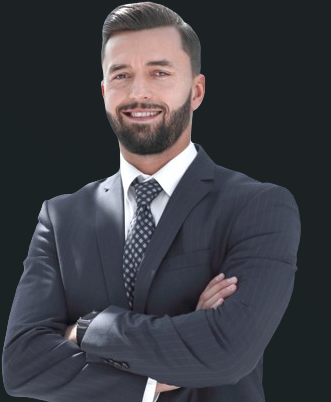
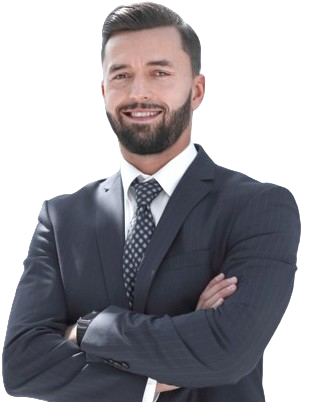
version 04

diff --git a/src/components/About/about.js b/src/components/About/about.js
@@ -73,6 +73,12 @@ const About = () => {
               >
                 Soft Skills
               </div>
+              <div
+                className={`tab-links ${activeTab === "course" ? "active-link" : ""}`}
+                onClick={() => openTab("course")}
+              >
+                Certificate Courses
+              </div>
             </div>
 
             {/* Tab content based on activeTab */}
@@ -154,6 +160,35 @@ const About = () => {
                 </li>
                 <li>
                   Open Minded
+                </li>
+              </ul>
+            </div>
+
+            <div className={`tab-content ${activeTab === "course" ? "active-tab" : ""}`} id="course">
+              <ul>
+                <li>
+                  <span>
+                  Online Certificate Course in React Basics - Mobile 
+                  and Web Development
+                  </span>
+                  <br />
+                  Coursera
+                </li>
+                <li>
+                  <span>
+                  Online Certificate Course Selenium WebDriver for 
+                  Beginners using JAVA.
+                  </span>
+                  <br />
+                  Udemy
+                </li>
+
+                <li>
+                  <span>
+                  Online Certificate Course in Selenium Basics
+                  </span>
+                  <br />
+                  Great Learning
                 </li>
               </ul>
             </div>

diff --git a/src/components/contact/contact.js b/src/components/contact/contact.js
@@ -2,6 +2,7 @@ import React from 'react'
 import "./contact.css";
 
 const Contact = () => {
+    
   return (
     <div id="contact">
         <div className="container">
@@ -21,8 +22,8 @@ const Contact = () => {
                 </div>
                 <div className="contact-right">
                     <form>
-                        <input type="text" name="name" placeholder="Your name hear.." required></input>
-                        <input type="email" name="email" placeholder="Enter your email hear.." required></input>
+                        <input type="text" name="Name" placeholder="Your name hear.." required></input>
+                        <input type="email" name="Email" placeholder="Enter your email hear.." required></input>
                         <textarea name="Message" rows="6" placeholder="Enter Your.." ></textarea>
                         <button type="submit" className="btn2"><i class="fa-solid fa-cloud-arrow-up"></i> Submit</button>
                     </form>
@@ -38,3 +39,5 @@ const Contact = () => {
 }
 
 export default Contact
+
+//https://script.google.com/macros/s/AKfycbzvlWvr9P3vNQd31GXgIiRuBEeSwzw5SpXcyCXyXH5d4kOdFFkYUSZGQ3GwffcPgQg/exec

diff --git a/src/components/services/services.js b/src/components/services/services.js
@@ -20,19 +20,20 @@ const Services = () => {
                 </div>
                 <div>
                 <i class="fa-solid fa-crop"></i>
-                    <h2>Web DeVeloper</h2>
-                   <p>C, C++, C#, Python, HTML, CSS, Java 
+                    <h2>Web Developer</h2>
+                   <p>C, C++, C#, Python, HTML, CSS, Java, 
                     JavaScript, PHP, MySQL, SQLite, Bootsrap, Mongo DB, MSSQL, React JS, Node JS</p> 
                     <a href = "#2">Learn more</a>
                 </div>
                 <div>
                 <i class="fa-brands fa-app-store-ios"></i>
-                    <h2>Soft Skills</h2>
-                    <p>hhhhhhhhhhhhhhhhhhhhhh</p>
+                    <h2>App Design</h2>
+                    <p>Android</p>
                     <a href = "#3">Learn more</a>
                 </div>
             </div>
 
+        
         </div>
     </div>
    

diff --git a/src/components/services/services.css b/src/components/services/services.css
@@ -36,14 +36,19 @@
 
 
 .services-list div i{
-    font-size: 50px;
-    margin-bottom: 30px;
+    font-size: 35px;
+    margin-bottom: 20px;
 }
 
 .services-list div h2{
     font-size: 30px;
     font-weight: 500;
     margin-bottom: 15px;
+    font-family: 'poppins', sans-serif;
+}
+
+.services-list div p{
+    font-family: 'Trebuchet MS', Helvetica, sans-serif
 }
 
 .services-list div a{
@@ -52,12 +57,13 @@
     font-size: 12px;
     margin-top: 20px;
     display: inline-block;
+    font-family: 'Lucida Grande', 'Lucida Sans Unicode', 'Lucida Sans', Geneva, Verdana, sans-serif
 }
 
 .services-list div:hover{
     /* background: #29C5f6; */
     background: aqua;
-    transform: translate(-10px);
+    transform: translateY(-10px);
 }
 
 .services-list div a::after{

diff --git a/src/components/intro/intro.js b/src/components/intro/intro.js
@@ -1,6 +1,7 @@
 import React from "react";
 import "./intro.css";
 import ProfileImg from "../../images/profile3.png";
+import ProfileImg2 from "../../images/proba.png";
 ///import BagImg from "../../images/bag.png";
 //import { Link } from "react-scroll";
 import Backvideo from "../../images/backvideo.mp4"
@@ -43,6 +44,7 @@ const Intro = () => {
             </button>
 
             <img className="bg" src={ProfileImg} alt="Profile" />
+           {/* <img className="bg1" src={ProfileImg2} alt="Profile" />  */}
           </div>
           <div className="introimg"></div>
         </div> 

diff --git a/src/components/portfolio/portfolio.css b/src/components/portfolio/portfolio.css
@@ -18,12 +18,10 @@
 .services-list2 div{  
     background-size: cover;
     padding: 40px;
-  
     transition: transform 0.5s ease-in-out, background-position 10s ease-in-out 0.5s;
-    
     border-radius: 15px;
-    border-color: black;
-    border: 25px;
+    box-shadow: 5px 10px 8px #121212;
+    border: 1px solid #121212;
     background-color: blue;
     
 }

diff --git a/src/components/UProject/uproject.css b/src/components/UProject/uproject.css
@@ -15,7 +15,7 @@
 }
 
 .section02{
-    margin-top: 10%;
+    margin-top: 7%;
     margin-bottom: 15%;
     
      
@@ -24,7 +24,7 @@
 .text1{
     text-align: center;
     font-family: sans-serif;
-    font-size: 20px;
+    font-size: 25px;
     font-weight: 700;
     color: aqua;
     line-height: 35px;

diff --git a/src/components/intro/intro.css b/src/components/intro/intro.css
@@ -34,6 +34,18 @@ video{
     
    
 }
+.bg1{
+    position: absolute;
+    top:3rem;
+    right: 2%;
+    z-index: 2; 
+    object-fit: cover;
+    height: 110%;
+
+    
+   
+}
+
 
 
 .introContent{
